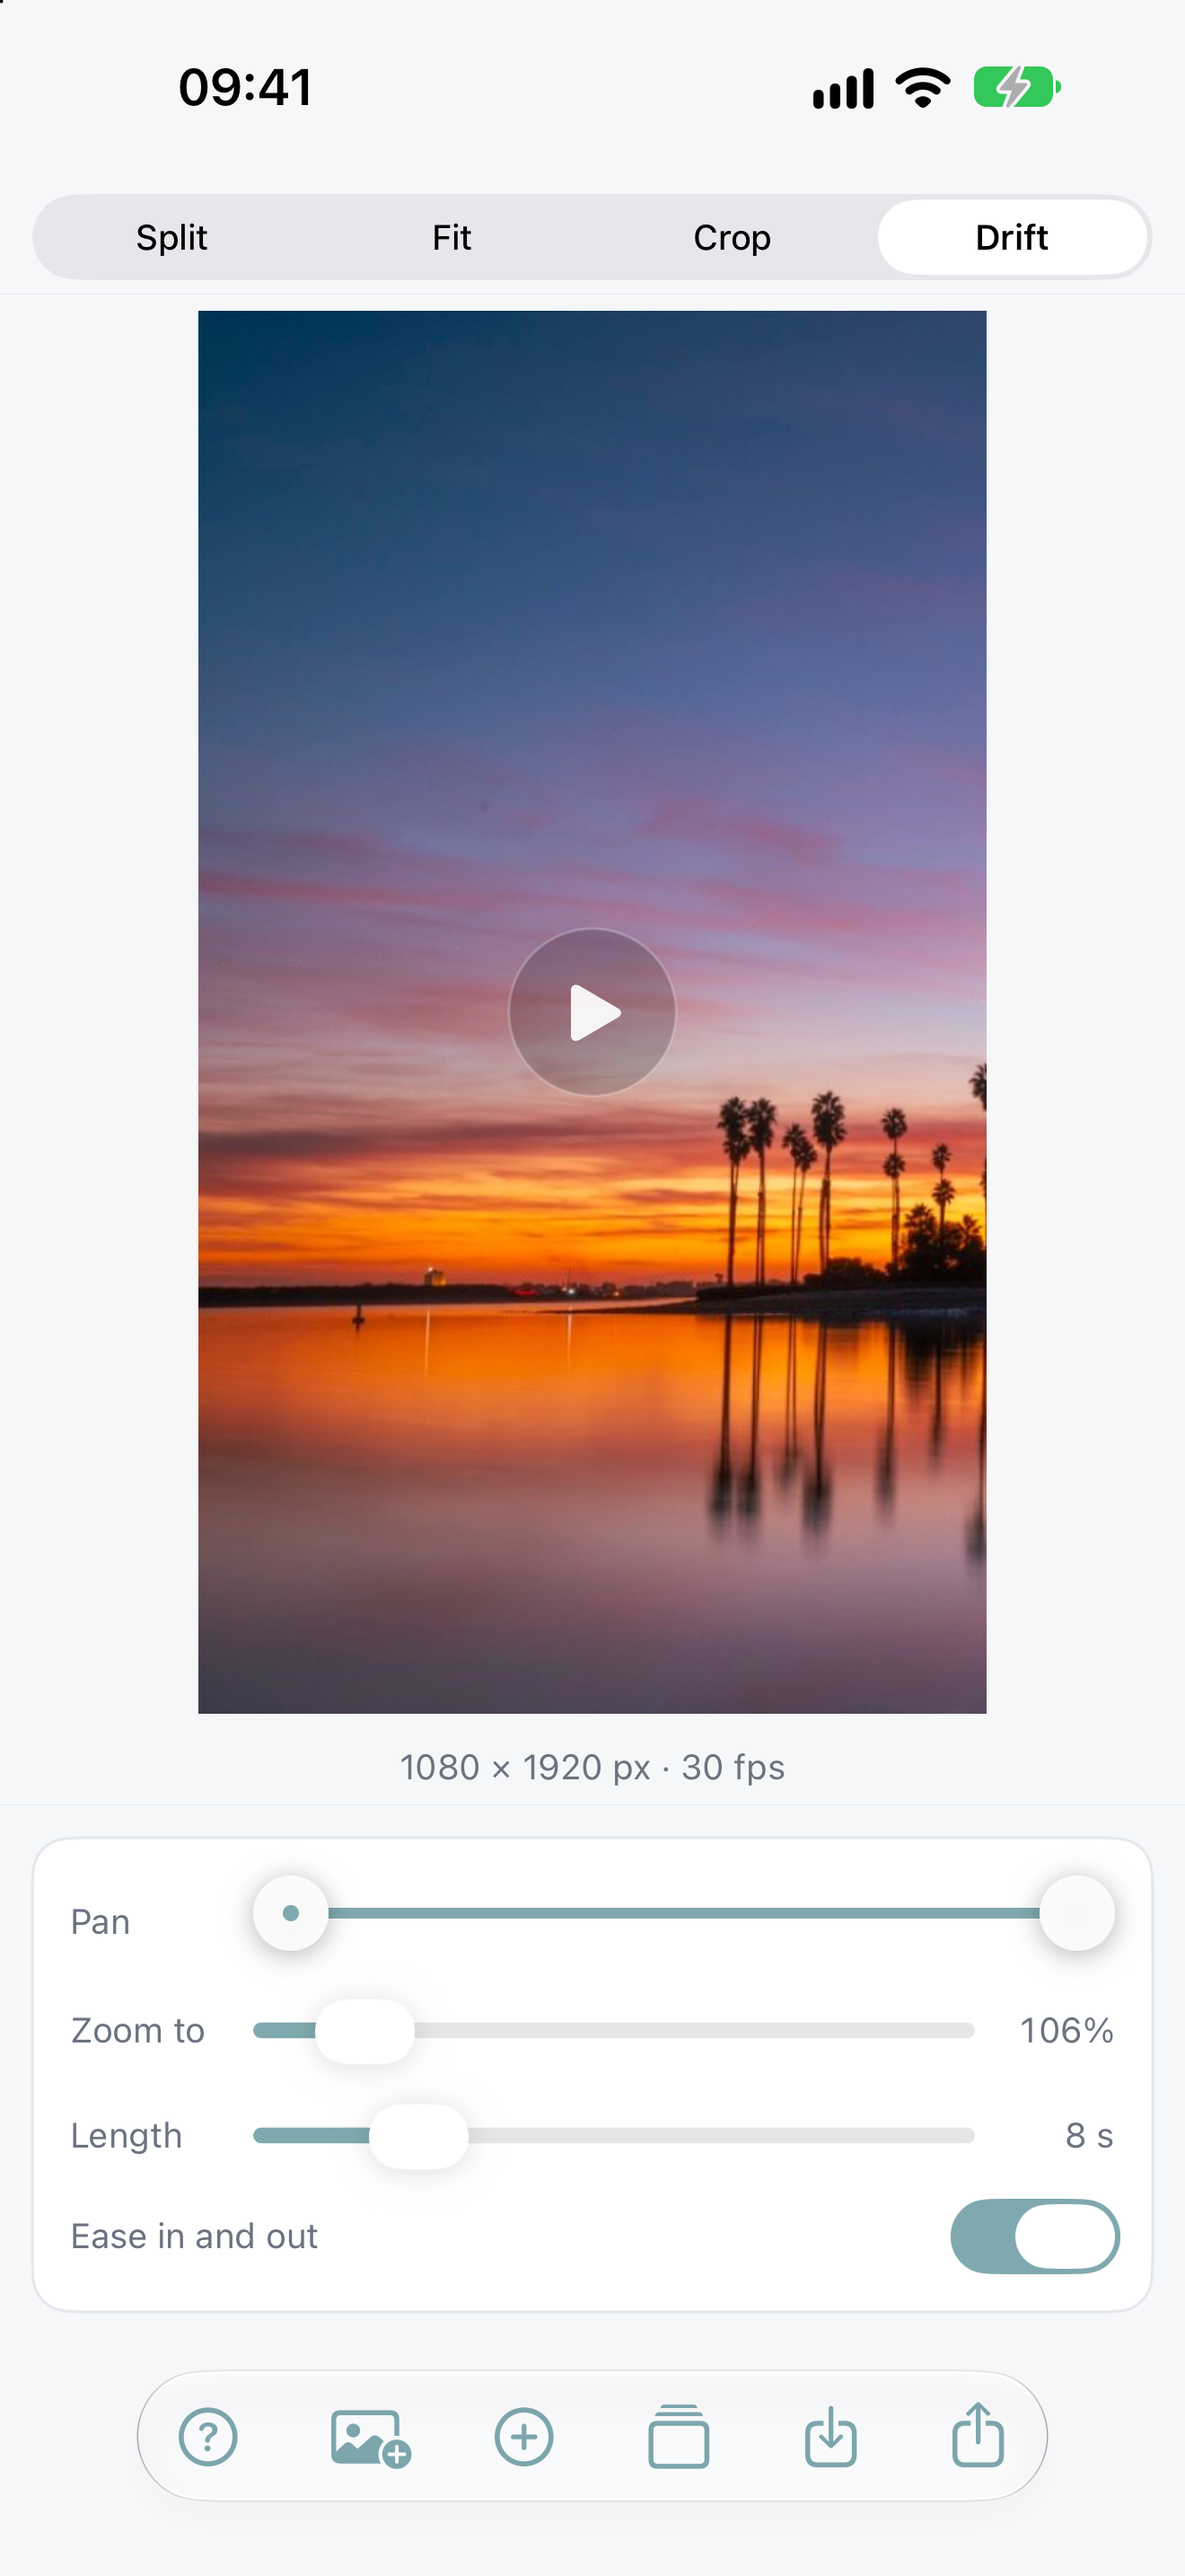
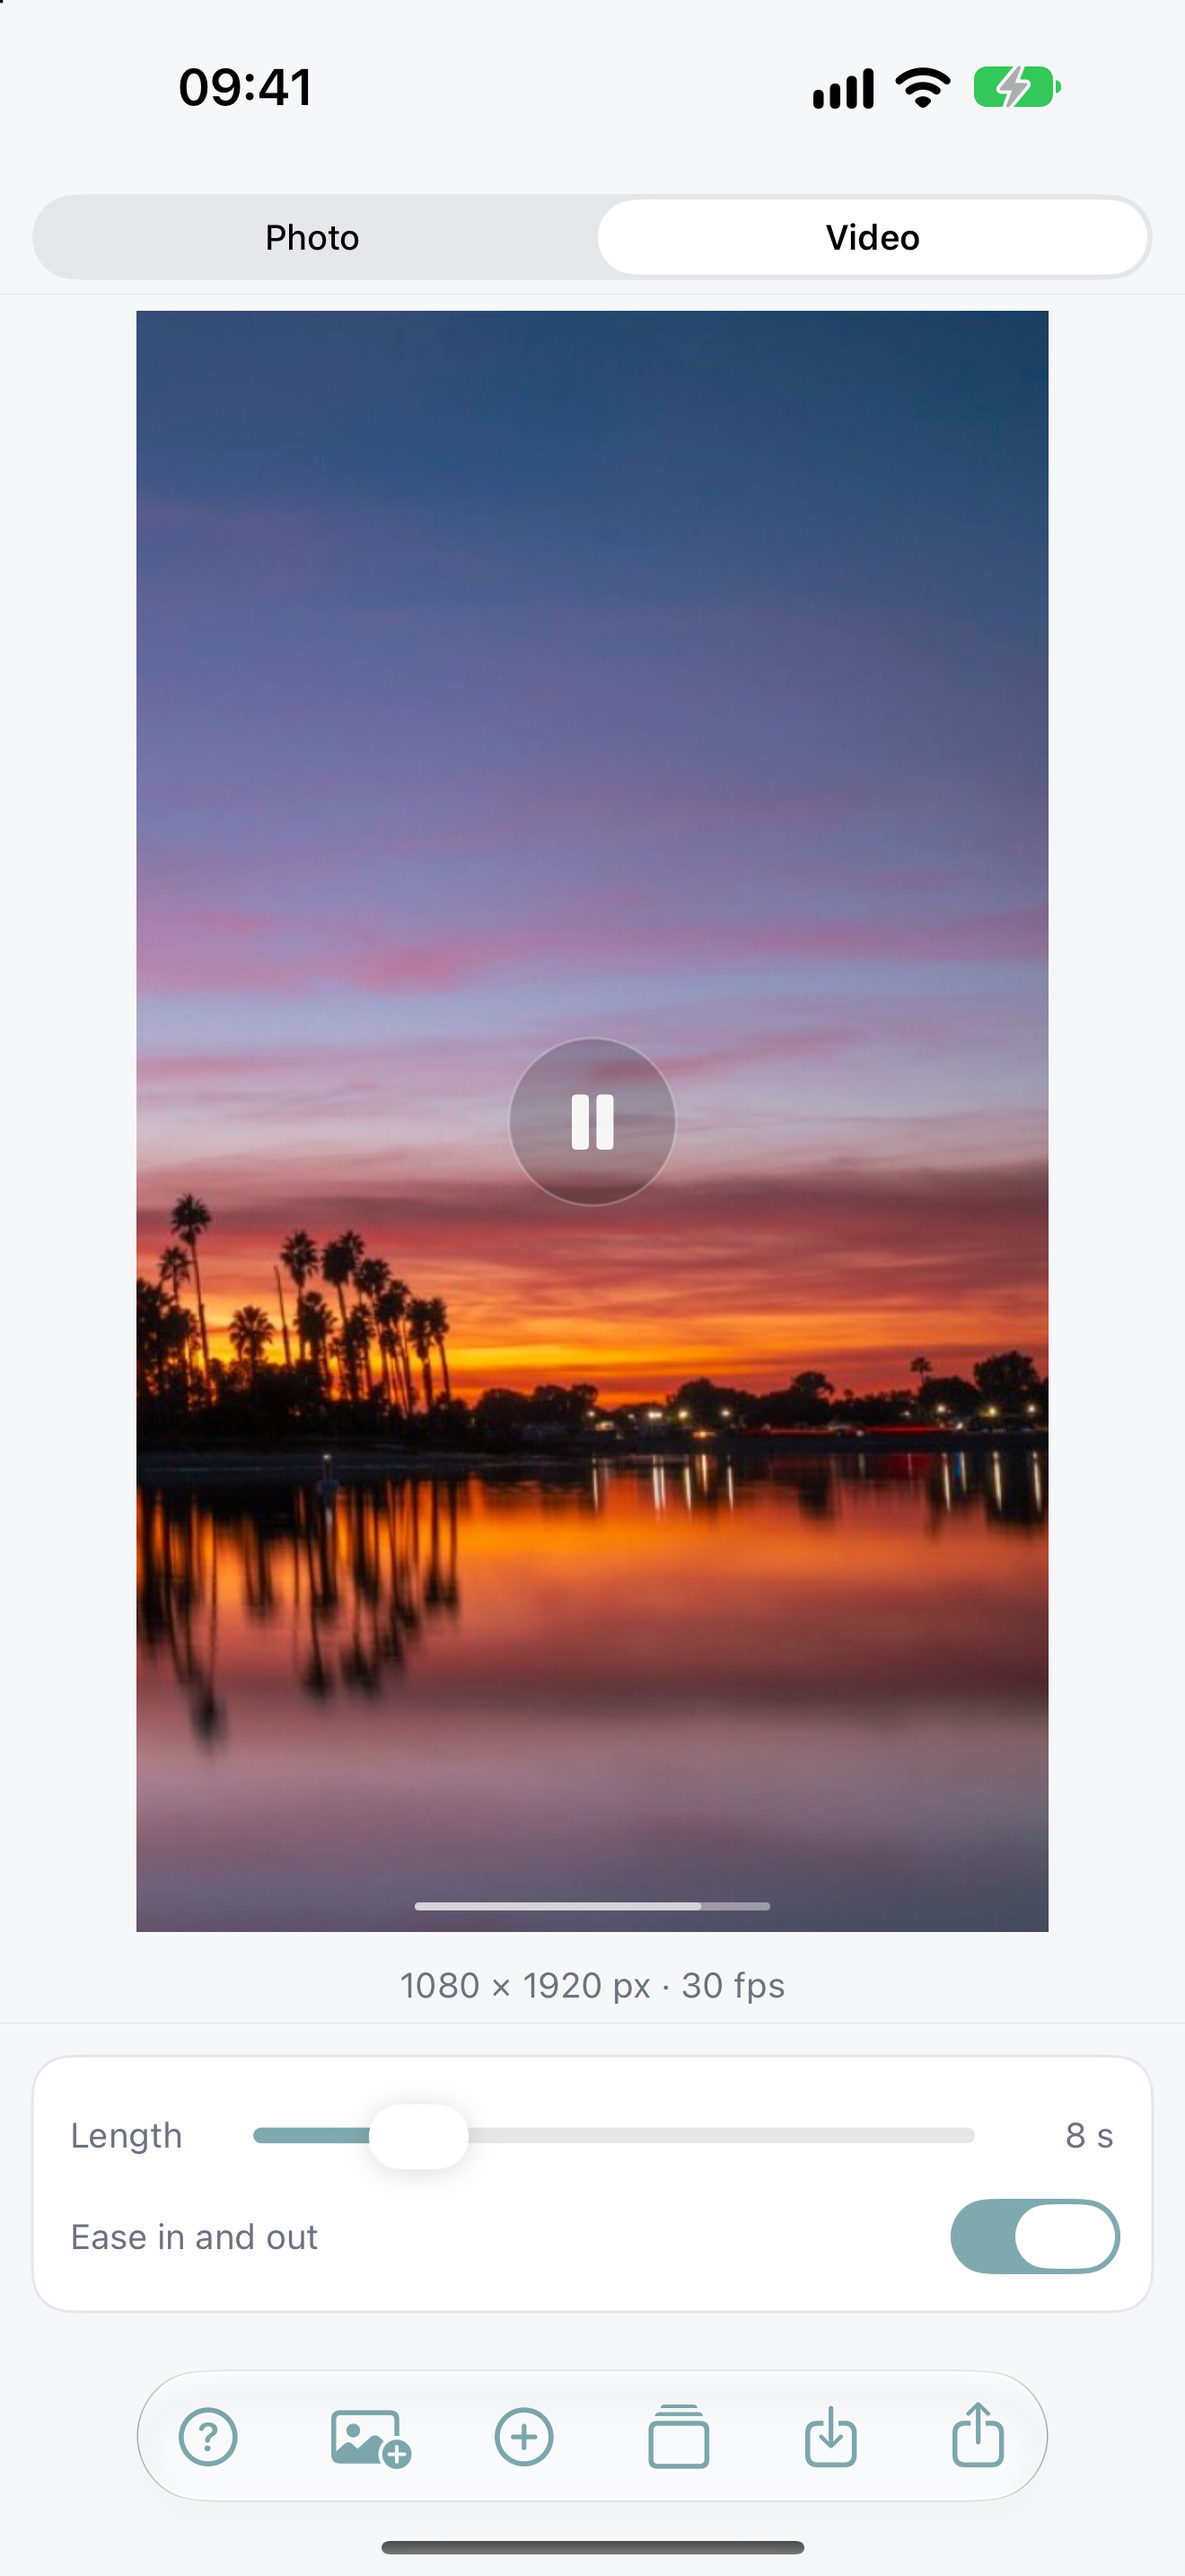
Images: site, cover, README and header show the current app
- docs/assets: the six product page images are the new 6.3" screenshots
- building-cover.png (weiniverse.com) rebuilt with Photo, Video, Settings
- appstore/screenshots (README, 6.9") retaken on the Pro Max
- appstore/header-3840x1646.png: the new product page header
- README: the code table says video, not drift

diff --git a/README.md b/README.md
@@ -78,7 +78,7 @@ The store screenshots in [`appstore/screenshots/`](appstore/screenshots) were ca
 | --- | --- |
 | `project.yml` | XcodeGen spec — target settings, bundle id, Info.plist keys |
 | `Seamless/` | SwiftUI sources and the asset catalog |
-| `Seamless/EditorModel.swift` | editor state: layout, photo, drift, export steps |
+| `Seamless/EditorModel.swift` | editor state: layout, photo, video, export steps |
 | `Seamless/Geometry.swift` | `Mode`, `Shape`, and the frame maths behind Photo and Video |
 | `Seamless/Renderer.swift`, `DriftEncoder.swift`, `Exporter.swift` | drawing, MP4 encoding, file output |
 | `Seamless/HelpView.swift` | the in-app manual |
